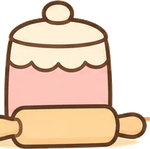
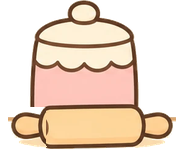
Decor: repair the flour jar's cut-off rolling pin; friends' gifts drawn in the kitchen's style on their own shelf (honey, mushroom lamp, yarn, carrot, balloon, umbrella stand)
Claude-Session: https://claude.ai/code/session_01LGHTTkBztyDXruiD5y2DMu

diff --git a/site/bakery/index.html b/site/bakery/index.html
@@ -1758,7 +1758,7 @@ function levelProgress() { const l = level(), h = (S.life || 0)/3600; if (l >= L
 const SHOP = {
   decor: [
     {id:'rack', name:'Utensil rack', art:'decor/utensil_rack', cost:20, at:[86, 134, 150]}, {id:'shelves', name:'Plant shelves', art:'decor/plant_shelves', cost:55, at:[554, 159, 164]},
-    {id:'flourjar', name:'Flour jar & rolling pin', art:'decor/flour_jar', cost:20, at:[52, 243, 78]},
+    {id:'flourjar', name:'Flour jar & rolling pin', art:'decor/flour_jar', cost:20, at:[45, 243, 91]},
     {id:'cwindow', name:'Curtained window', art:'decor/curtained_window', cost:60, at:[222, 188, 70]}, {id:'books', name:'Cookbook shelf', art:'decor/cookbook_shelf', cost:35, at:[212, 116, 76]},
     {id:'clock', name:'Wall clock', art:'decor/wall_clock', cost:25, at:[420, 112, 44]}, {id:'picture', name:'Cake painting', art:'decor/framed_cake_picture', cost:40, at:[420, 186, 50]},
     {id:'lights', name:'Fairy lights', art:'decor/fairy_lights', cost:50, at:[318, 96, 190]}, {id:'tulips', name:'Tulips', art:'decor/tulip_vase', cost:20, at:[497, 226, 56]},
@@ -1794,7 +1794,59 @@ function drawDecor(now) {
   for (const it of items) {
     const im = it.art && art(it.art);
     if (ok(im)) { const [x, y, w] = it.at, h = w*im.naturalHeight/im.naturalWidth; ctx.drawImage(im, x - w/2, y - h, w, h); continue; }
-    if (it.icon) { ctx.font = '26px system-ui'; ctx.textAlign = 'center'; ctx.fillText(it.icon, it.at[0], it.at[1]); ctx.textAlign = 'start'; }
+    if (it.icon && !GIFT_ART[it.id]) { ctx.font = '26px system-ui'; ctx.textAlign = 'center'; ctx.fillText(it.icon, it.at[0], it.at[1]); ctx.textAlign = 'start'; }
+  }
+  drawGifts(now);
+}
+// friends' gifts, drawn in the kitchen's style on a little shelf of their own (balloon tied to it, umbrella in a stand)
+const GIFT_ART = {honey: 1, shroom: 1, yarn: 1, carrot: 1, balloon: 1, umbrella: 1};
+function drawGifts(now) {
+  const has = id => equipped(id) && owned(id), any = Object.keys(GIFT_ART).some(has); if (!any) return;
+  const L = 2, sy = 178;   // shelf top
+  if (['honey', 'shroom', 'yarn', 'carrot', 'balloon'].some(has)) {
+    for (const bx of [86, 186]) shape('#c99a6b', () => { ctx.moveTo(bx - 4, sy + 5); ctx.lineTo(bx + 4, sy + 5); ctx.lineTo(bx, sy + 14); ctx.closePath(); }, CINK, L);
+    shape('#e3b98a', rr(72, sy, 128, 6, 3), CINK, L);
+  }
+  if (has('honey')) {   // honey pot with a drip
+    shape('#f2b84b', () => { ctx.moveTo(90, sy); ctx.bezierCurveTo(78, sy - 2, 79, sy - 22, 88, sy - 23); ctx.lineTo(102, sy - 23); ctx.bezierCurveTo(111, sy - 22, 112, sy - 2, 100, sy); ctx.closePath(); }, CINK, L);
+    shape('#fff3d6', rr(87, sy - 28, 16, 6, 3), CINK, L);
+    shape('#f7d27a', () => { ctx.moveTo(84, sy - 18); ctx.quadraticCurveTo(95, sy - 22, 106, sy - 18); ctx.lineTo(106, sy - 14); ctx.quadraticCurveTo(101, sy - 12, 99, sy - 6); ctx.quadraticCurveTo(97, sy - 12, 84, sy - 14); ctx.closePath(); }, null);
+  }
+  if (has('shroom')) {   // mushroom lamp, softly glowing
+    const glow = (night() ? .55 : .25) + .08*Math.sin(now/900);
+    const g = ctx.createRadialGradient(128, sy - 18, 2, 128, sy - 18, 30); g.addColorStop(0, `rgba(255,214,140,${glow})`); g.addColorStop(1, 'rgba(255,214,140,0)'); ctx.fillStyle = g; ctx.fillRect(96, sy - 50, 64, 56);
+    shape('#fff3e4', rr(124, sy - 14, 9, 14, 3), CINK, L);
+    shape('#ef6a5c', () => { ctx.moveTo(114, sy - 13); ctx.bezierCurveTo(113, sy - 30, 143, sy - 30, 142, sy - 13); ctx.closePath(); }, CINK, L);
+    for (const [a, b, r] of [[121, -20, 2.6], [132, -24, 2.2], [137, -17, 1.8], [127, -16, 1.6]]) shape('#fffaf2', ell(a, sy + b, r, r*.85), null);
+  }
+  if (has('yarn')) {   // ball of yarn with a loose end
+    shape('#f49ab0', ell(160, sy - 10, 10, 10), CINK, L);
+    ctx.save(); ctx.beginPath(); ctx.arc(160, sy - 10, 9, 0, 7); ctx.clip(); ctx.strokeStyle = '#d9708c'; ctx.lineWidth = 1.4;
+    for (let i = -2; i <= 2; i++) { ctx.beginPath(); ctx.ellipse(160 + i*4, sy - 10, 3, 11, .5, 0, 7); ctx.stroke(); } ctx.restore();
+    ctx.strokeStyle = '#d9708c'; ctx.lineWidth = 1.6; ctx.beginPath(); ctx.moveTo(168, sy - 4); ctx.quadraticCurveTo(176, sy + 2, 172, sy + 10 + Math.sin(now/700)*1.5); ctx.stroke();
+  }
+  if (has('carrot')) {   // a carrot in a little pot
+    shape('#f6c9b8', () => { ctx.moveTo(178, sy); ctx.lineTo(176, sy - 12); ctx.lineTo(196, sy - 12); ctx.lineTo(194, sy); ctx.closePath(); }, CINK, L);
+    ctx.save(); ctx.translate(186, sy - 13); ctx.rotate(Math.sin(now/1300)*.04);
+    for (const a of [-.5, 0, .5]) shape('#7cc47a', () => { ctx.ellipse(Math.sin(a)*7, -26, 3, 8, a, 0, 7); }, CINK, 1.6);
+    shape('#f39a4a', () => { ctx.moveTo(-6, -18); ctx.quadraticCurveTo(0, -22, 6, -18); ctx.lineTo(1, 4); ctx.lineTo(-1, 4); ctx.closePath(); }, CINK, L);
+    for (const y of [-12, -6]) { ctx.strokeStyle = '#d97a30'; ctx.lineWidth = 1.2; ctx.beginPath(); ctx.moveTo(-3, y); ctx.lineTo(1, y); ctx.stroke(); }
+    ctx.restore();
+  }
+  if (has('balloon')) {   // tied to the end of the shelf, bobbing
+    const bx = 214 + Math.sin(now/1500)*3, by = sy - 62 + Math.sin(now/1100)*3;
+    ctx.strokeStyle = CINK; ctx.lineWidth = 1.2; ctx.beginPath(); ctx.moveTo(199, sy + 2); ctx.quadraticCurveTo(212, sy - 18, bx, by + 18); ctx.stroke();
+    shape('#ff8aa6', () => { ctx.moveTo(bx, by + 17); ctx.bezierCurveTo(bx - 17, by + 8, bx - 15, by - 16, bx, by - 16); ctx.bezierCurveTo(bx + 15, by - 16, bx + 17, by + 8, bx, by + 17); }, CINK, L);
+    shape('#ff8aa6', () => { ctx.moveTo(bx - 3, by + 21); ctx.lineTo(bx + 3, by + 21); ctx.lineTo(bx, by + 16); ctx.closePath(); }, CINK, 1.5);
+    shape('rgba(255,255,255,.7)', ell(bx - 6, by - 6, 3, 5, -.4), null);
+  }
+  if (has('umbrella')) {   // a little umbrella in a stand by the counter
+    const ux = 150, uy = 362;
+    shape('#9cc6e8', () => { ctx.moveTo(ux - 3, uy - 52); ctx.quadraticCurveTo(ux - 12, uy - 24, ux - 7, uy - 8); ctx.lineTo(ux + 7, uy - 8); ctx.quadraticCurveTo(ux + 12, uy - 24, ux + 3, uy - 52); ctx.closePath(); }, CINK, L);
+    ctx.strokeStyle = CINK; ctx.lineWidth = L; ctx.beginPath(); ctx.moveTo(ux, uy - 52); ctx.lineTo(ux, uy - 60); ctx.stroke();
+    ctx.beginPath(); ctx.moveTo(ux, uy - 8); ctx.lineTo(ux, uy + 2); ctx.stroke();
+    shape('#f3d9b8', rr(ux - 11, uy - 16, 22, 18, 4), CINK, L);
+    ctx.strokeStyle = '#e3bf95'; ctx.lineWidth = 1.5; ctx.beginPath(); ctx.moveTo(ux - 7, uy - 10); ctx.lineTo(ux + 7, uy - 10); ctx.stroke();
   }
 }
 // outfits share the cat's 1278x1230 canvas; offsets are each layer's top-left there
